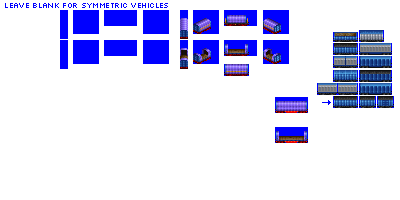
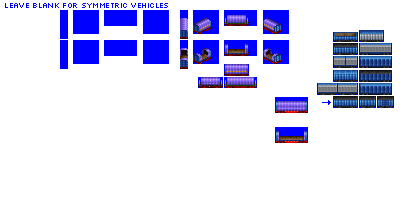
Change: restore coil cars, and try out variations on sprite style

Changed region(s): [[0.48, 0.36, 0.66, 0.45], [0.54, 0.06, 0.63, 0.12]]

diff --git a/src/vehicles/coil_cars.py b/src/vehicles/coil_cars.py
@@ -7,7 +7,7 @@ def main():
     # start gen 4, B and C lengths only
 
     consist = CoilCarConsist(roster='pony',
-                             base_numeric_id=2950,
+                             base_numeric_id=3510,
                              gen=4,
                              subtype='B',
                              sprites_complete=False)
@@ -17,7 +17,7 @@ def main():
 
 
     consist = CoilCarConsist(roster='pony',
-                             base_numeric_id=3250,
+                             base_numeric_id=3520,
                              gen=4,
                              subtype='C',
                              sprites_complete=False)
@@ -27,40 +27,40 @@ def main():
 
 
     consist = CoilCarConsist(roster='pony',
-                             base_numeric_id=3320,
+                             base_numeric_id=3530,
                              gen=5,
                              subtype='B',
                              sprites_complete=False)
 
     consist.add_unit(type=FreightCar,
-                     chassis='4_axle_sparse_24px')
+                     chassis='4_axle_2cc_filled_24px')
 
 
     consist = CoilCarConsist(roster='pony',
-                             base_numeric_id=3330,
+                             base_numeric_id=3540,
                              gen=5,
                              subtype='C',
                              sprites_complete=False)
 
     consist.add_unit(type=FreightCar,
-                     chassis='4_axle_sparse_32px')
+                     chassis='4_axle_2cc_filled_32px')
 
 
     consist = CoilCarConsist(roster='pony',
-                             base_numeric_id=3340,
+                             base_numeric_id=3550,
                              gen=6,
                              subtype='B',
                              sprites_complete=False)
 
     consist.add_unit(type=FreightCar,
-                     chassis='4_axle_sparse_24px')
+                     chassis='4_axle_gapped_24px')
 
 
     consist = CoilCarConsist(roster='pony',
-                             base_numeric_id=3350,
+                             base_numeric_id=3560,
                              gen=6,
                              subtype='C',
                              sprites_complete=False)
 
     consist.add_unit(type=FreightCar,
-                     chassis='4_axle_sparse_32px')
+                     chassis='4_axle_gapped_32px')

diff --git a/src/global_constants.py b/src/global_constants.py
@@ -14,6 +14,7 @@ buy_menu_sort_order_wagons = ['alignment_car',
                               'plate_car',
                               'flat_car',
                               'tarpaulin_car',
+                              'coil_car',
                               'hopper_car',
                               'coal_hopper_car',
                               'dump_car',
@@ -28,7 +29,6 @@ buy_menu_sort_order_wagons = ['alignment_car',
                               'reefer_car',
                               'fruit_veg_car',
                               'stake_car',
-                              #'coil_car',
                               'well_car',
                               #'vehicle_transporter_car',
                               #'torpedo_car',

diff --git a/src/iron_horse.py b/src/iron_horse.py
@@ -52,11 +52,8 @@ caboose_cars.main()
 from vehicles import chemicals_tank_cars
 chemicals_tank_cars.main()
 
-"""
-# commented out until further notice - not convinced they're good
 from vehicles import coil_cars
 coil_cars.main()
-"""
 
 from vehicles import coal_hopper_cars
 coal_hopper_cars.main()
